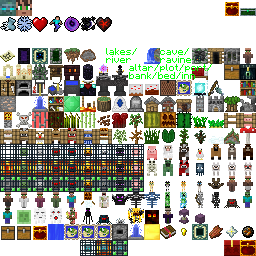
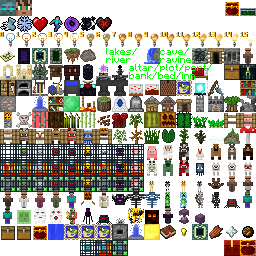
Update items to 1.18.2

Changed region(s): [[0.0, 0.125, 1.0, 0.1875]]

diff --git a/README.md b/README.md
@@ -2,6 +2,6 @@
 
 Updated [WolfieMario's Text Icon Resourcepack](http://imgur.com/a/oHvbX) to the latest Minecraft.
 
-|Items     |Blocks    |
-|----------|----------|
-|Up to 1.16|Up to 1.16|
+|Items       |Blocks    |
+|------------|----------|
+|Up to 1.18.2|Up to 1.16|
